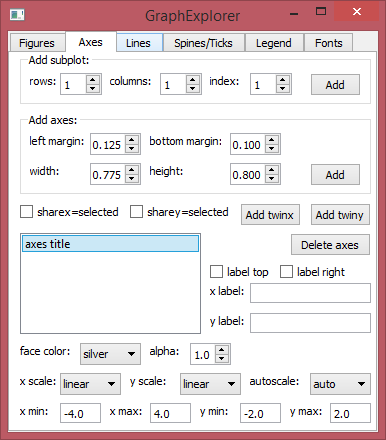
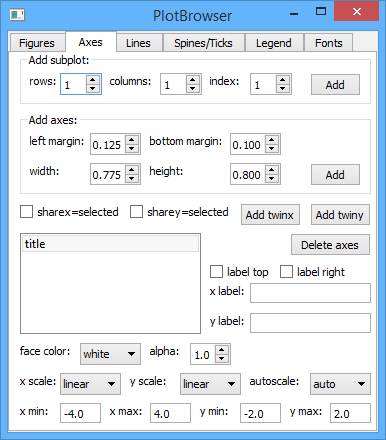
fixes for python 3

Changed region(s): [[0.0, 0.0, 1.0, 1.0], [0.2176, 0.7977, 0.2798, 0.8273], [0.1554, 0.1477, 0.1865, 0.1773]]

diff --git a/plotbrowser_ui.py b/plotbrowser_ui.py
@@ -2,7 +2,7 @@
 
 # Form implementation generated from reading ui file 'plotbrowser_ui.ui'
 #
-# Created: Wed Jan 01 16:15:31 2014
+# Created: Wed Jan 01 21:56:29 2014
 #      by: pyside-uic 0.2.14 running on PySide 1.1.2
 #
 # WARNING! All changes made in this file will be lost!
@@ -14,7 +14,6 @@ except ImportError:
     sip.setapi('QString', 2)
     sip.setapi('QVariant', 2)
     from PyQt4 import QtCore, QtGui
-
 
 class Ui_PlotBrowser(object):
     def setupUi(self, PlotBrowser):
@@ -778,7 +777,7 @@ class Ui_PlotBrowser(object):
         QtCore.QMetaObject.connectSlotsByName(PlotBrowser)
 
     def retranslateUi(self, PlotBrowser):
-        PlotBrowser.setWindowTitle(QtGui.QApplication.translate("PlotBrowser", "GraphExplorer", None, QtGui.QApplication.UnicodeUTF8))
+        PlotBrowser.setWindowTitle(QtGui.QApplication.translate("PlotBrowser", "PlotBrowser", None, QtGui.QApplication.UnicodeUTF8))
         self.label_30.setText(QtGui.QApplication.translate("PlotBrowser", "background color:", None, QtGui.QApplication.UnicodeUTF8))
         self.pushButton_makefigure.setText(QtGui.QApplication.translate("PlotBrowser", "Make figure", None, QtGui.QApplication.UnicodeUTF8))
         self.comboBox_figurefacecolor.setItemText(0, QtGui.QApplication.translate("PlotBrowser", "white", None, QtGui.QApplication.UnicodeUTF8))
